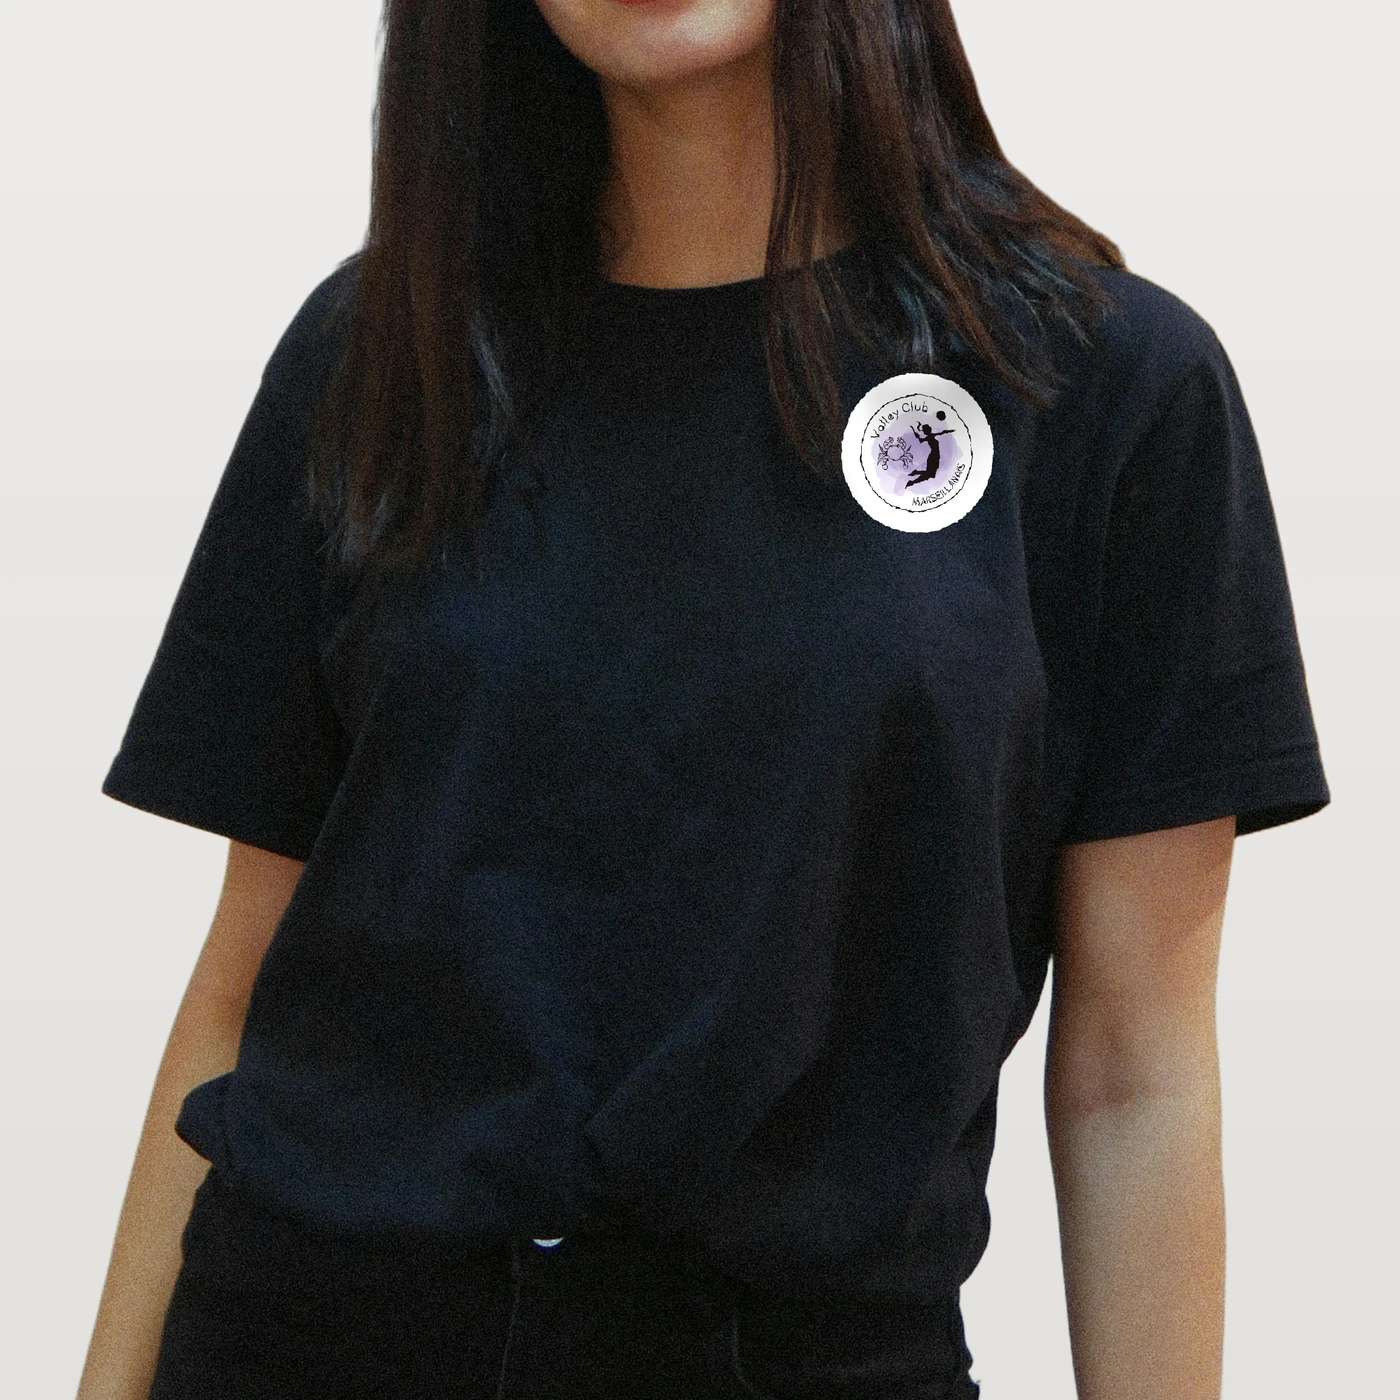
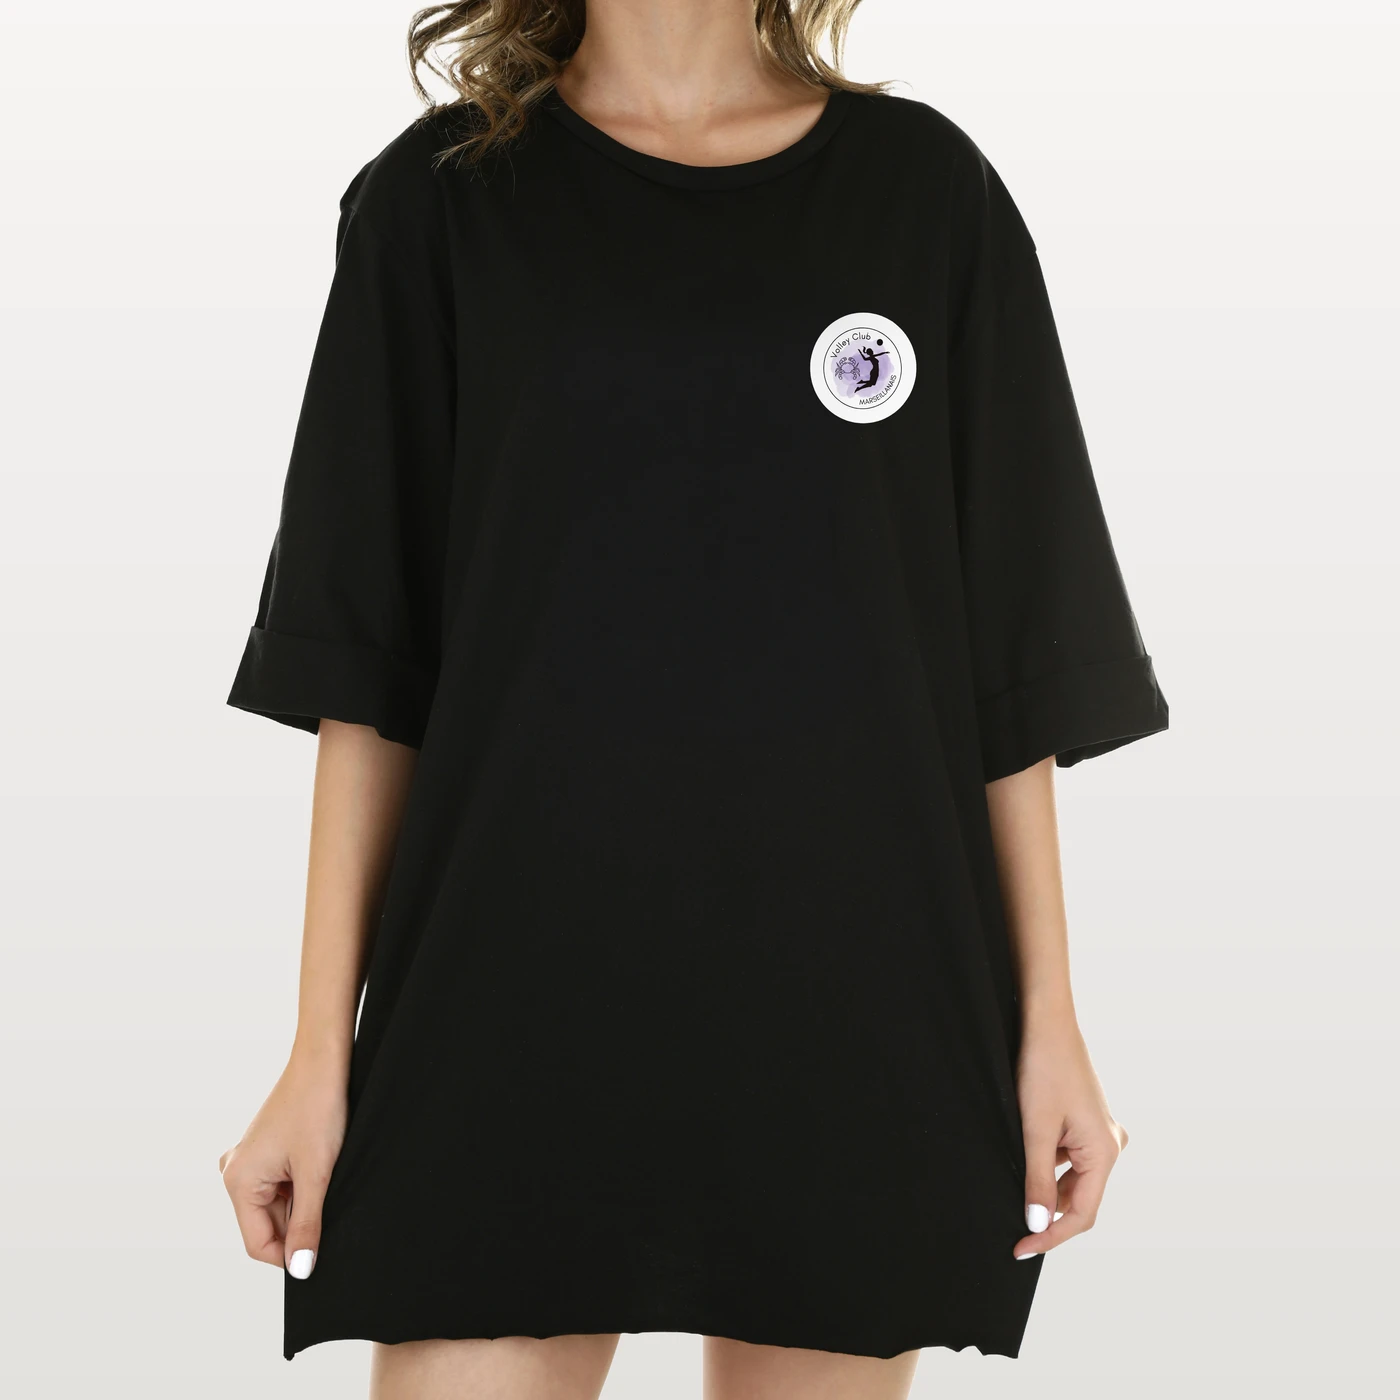
feat(boutique): nouvelle photo face du tee-shirt, gourde VCM, tote sur fond studio
- Tee-shirt de face : photo nette (4480 px) du même studio que le dos, à
  la place d'une photo bruitée prise en intérieur
- Gourde : devise retirée, écusson agrandi et « VCM » en gros dessous
- Tote bag : même fond studio que les autres articles

diff --git a/docs/boutique/CREDITS.md b/docs/boutique/CREDITS.md
@@ -6,7 +6,7 @@ Les photos de `public/images/boutique/` reproduisent les articles du catalogue e
 |---|---|
 | Sweat à capuche (face, porté) | `ssjtw8mOJd0` |
 | Sweat à capuche (dos, porté, recadré, fond remplacé) | `XN6M-7brjEg` |
-| Tee-shirt porté (face, fond remplacé par le studio) | `SeeiNC9snZg` |
+| Tee-shirt porté (face, même studio que le dos) | `sKGxVtKAGx0` |
 | Tee-shirt porté (dos) | `r39LjPOTBFg` |
 | Sac à dos | `K6Ea5LNOdbg` |
 | Gourde sport (turquoise, passée en blanc) | `5juxThkBbZM` |
